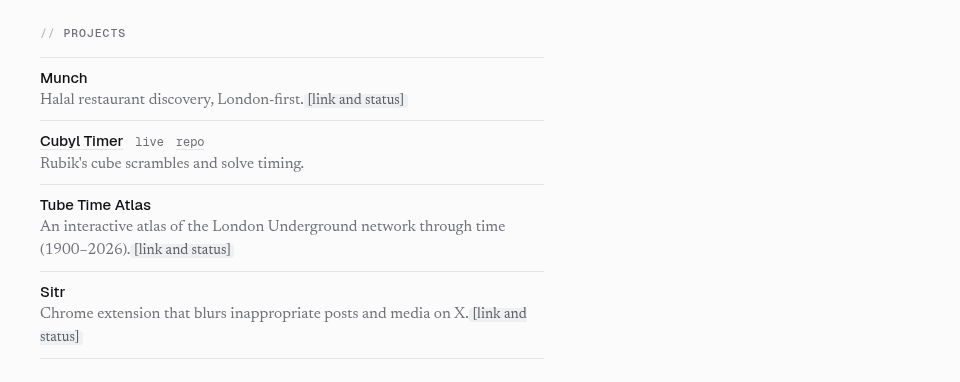
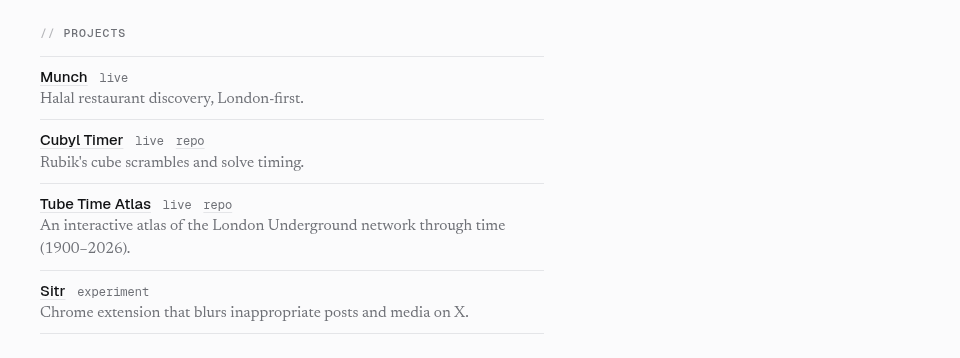
Projects: links and status for Munch, Tube Time Atlas and Sitr; Harvard date
- Munch (munchapp.io) and Tube Time Atlas are live; Tube Time also
  links its repo. Sitr links its repo and is tagged experiment, a new
  status. Both repos are private for now, so they 404 for visitors.
- Projects no longer take a todo; blurb and status are required.
- Harvard Medical School: Summer 2022.

diff --git a/src/content.config.ts b/src/content.config.ts
@@ -57,11 +57,10 @@ const projects = defineCollection({
   loader: file('./src/content/projects.json'),
   schema: z.object({
     name: z.string(),
-    blurb: z.string().nullable(),
+    blurb: z.string(),
     url: z.string().url().optional(),
     repo: z.string().url().optional(),
-    status: z.enum(['live', 'archived', 'wip']).nullable(),
-    todo,
+    status: z.enum(['live', 'archived', 'wip', 'experiment']),
   }),
 })
 

diff --git a/README.md b/README.md
@@ -22,7 +22,7 @@ All copy lives in `src/content/`. The schemas in `src/content.config.ts` validat
 | --- | --- |
 | `now.md` | The Now section (markdown; the name popover is inline HTML using the native `popover` attribute). `updated` drives "Last updated" and the footer date. `aside` is the handwritten note beside it. |
 | `timeline.json` | Rows in display order, newest first. Every row has `start` and optional `end`, written as `YYYY`, `YYYY-MM` or `YYYY-summer` (`end` can also be `"present"`); they show as "Jun 2026 – present" in the left column. `start: null` with a `todo` shows a placeholder. `kind: "work"` rows have `role`, `org`, optional `url`, `note`, `current` (adds the dot) and `aside` (the handwritten margin note). `kind: "life"` rows have `text`, optional `place`, `country` (ISO alpha-2, shown as a flag) and `note`. |
-| `projects.json` | One row per project: `name`, `blurb`, optional `url` and `repo`, and `status` (`live`, `archived`, `wip` or `null`). |
+| `projects.json` | One row per project: `name`, `blurb`, optional `url` and `repo`, and `status` (`live`, `archived`, `wip` or `experiment`). With no `url` the name links to `repo`; with both, a small `repo` tag is added. |
 | `interests.json` | Entries with `kind` set to `interest`, `highlight` (`text`) or `book` (`status`: `reading` or `read`). |
 | `travel.json` | Visited countries: `{ "id": "JP", "favourite": true }`, with optional `year` and `note`. `id` must be an ISO 3166-1 alpha-2 code. The world map, its favourites (in teal) and the Travel count come from this file. Countries too small to see get a dot. |
 | `links.json` | The links used in the Links sentence. `id` is one of `x`, `instagram`, `youtube`, `github`, `linkedin`. |
